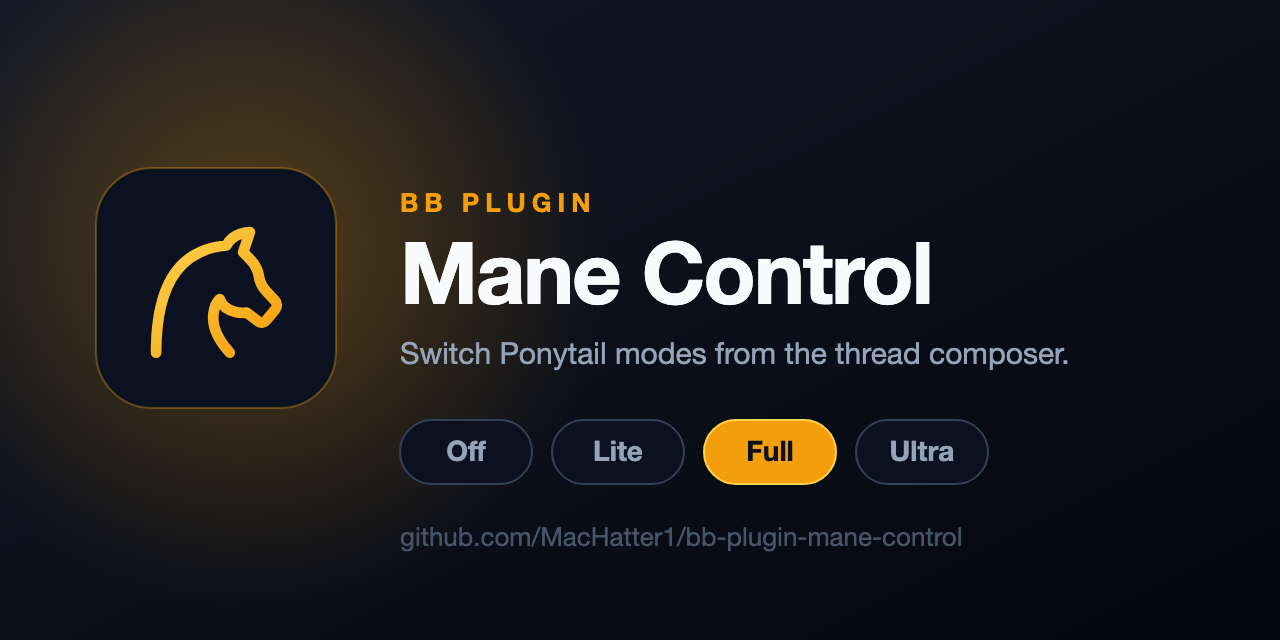
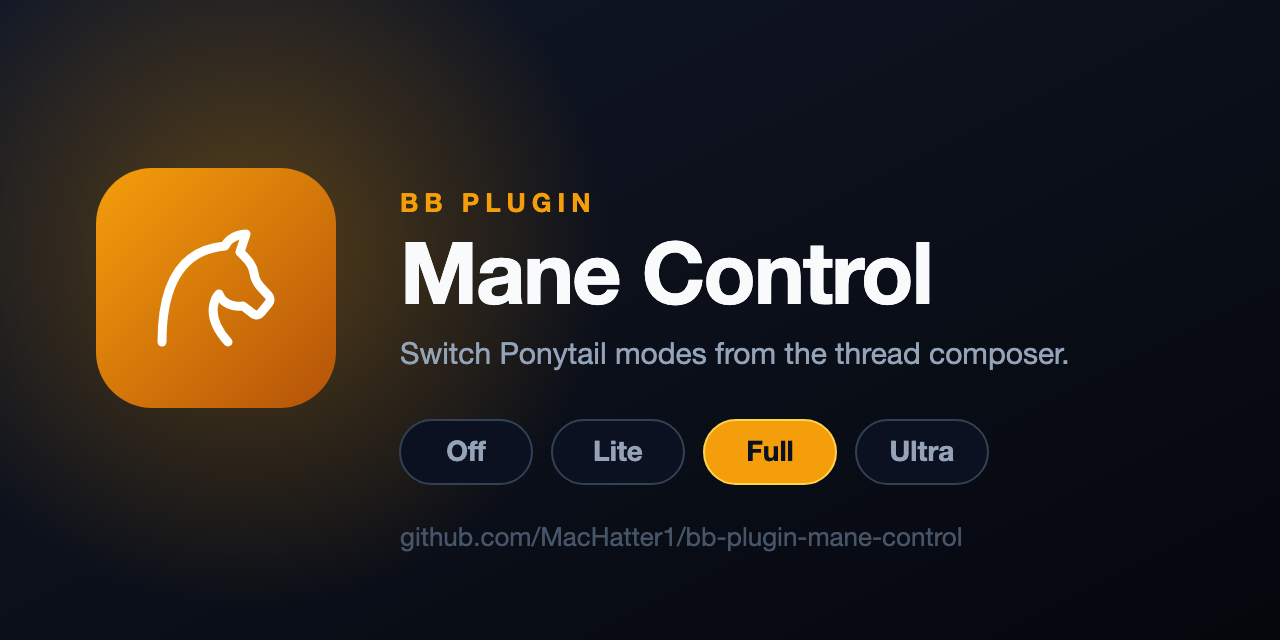
docs: move the README and branding to the house plugin layout
Visitors comparing plugins should find the same structure in every repo: the
problem, features, install, how it works and what it will not do. The README
now says plainly that the button only knows the mode it sent, since typing
/ponytail by hand does not update it. PLUGIN_OVERVIEW.md makes the same
claim.

The logo is regenerated as the shared gradient tile around the icon BB shows
for the plugin, and the social card uses the same tile. The old PNG logo is
dropped because nothing references it. A changelog records the three tagged
releases, and the npm description now shortens bb.description.

Changed region(s): [[0.0625, 0.25, 0.2812, 0.6562]]

diff --git a/README.md b/README.md
@@ -1,74 +1,214 @@
 <div align="center">
 
-<img src="assets/logo.png" alt="Mane Control logo" width="112" height="112">
+<img src="assets/logo.svg" width="96" height="96" alt="Mane Control logo">
 
 # Mane Control
 
-**Switch [Ponytail](https://github.com/DietrichGebert/ponytail) modes from the thread composer — no slash commands.**
+### Switch Ponytail modes without typing a slash command.
 
-[![BB plugin](https://img.shields.io/badge/BB-plugin-f59e0b?style=flat-square)](https://github.com/MacHatter1/bb-plugin-mane-control)
-[![version](https://img.shields.io/github/package-json/v/MacHatter1/bb-plugin-mane-control?style=flat-square&color=f59e0b)](package.json)
-[![requires Ponytail](https://img.shields.io/badge/requires-Ponytail-f59e0b?style=flat-square)](https://github.com/DietrichGebert/ponytail)
-[![license](https://img.shields.io/github/license/MacHatter1/bb-plugin-mane-control?style=flat-square&color=f59e0b)](LICENSE)
+A horse button beside the thread composer switches [Ponytail](https://github.com/DietrichGebert/ponytail) between Off, Lite, Full and Ultra.<br>
+You see the thread's mode at a glance, and mode changes show up in the transcript as small pills.
 
-<img src="output/playwright/mane-control-menu.png" alt="Ponytail mode menu open beside the BB composer" width="640">
+![Licence: MIT](https://img.shields.io/badge/licence-MIT-blue)
+![bb ≥ 0.40](https://img.shields.io/badge/bb-%E2%89%A5%200.40-f59e0b)
+![Plugin SDK ≥ 0.4.21](https://img.shields.io/badge/plugin%20sdk-%E2%89%A5%200.4.21-b45309)
+![TypeScript](https://img.shields.io/badge/TypeScript-strict-3178c6?logo=typescript&logoColor=white)
+
+[Features](#features) · [Install](#install) · [How it works](#how-it-works) · [Development](#development)
+
+<br>
+
+<img src="output/playwright/mane-control-lite.png" alt="The Ponytail mode menu open beside the BB composer, with Lite selected and a Ponytail · Lite pill in the transcript" width="780">
 
 </div>
 
-## What it does
+<br>
 
-A horse button sits beside the thread composer. Open it, pick a mode, and the
-matching `/ponytail` command goes into the thread straight away — the button
-keeps the active mode in view, and its icon changes with it.
+> [!NOTE]
+> The screenshots are real BB captures populated with fictional demo data.
 
-| Mode | Sends | Ponytail behaviour |
-| --- | --- | --- |
-| Off | `/ponytail off` | Disable Ponytail |
-| Lite | `/ponytail lite` | Build it, mention the lazier path |
-| Full | `/ponytail full` | The practical default ladder |
-| Ultra | `/ponytail ultra` | YAGNI with the reins off |
+## The problem
 
-Mode commands in the transcript collapse into compact `Ponytail · Mode` status
-pills, with the real command still available underneath.
+Ponytail has four modes, and you switch between them by typing
+`/ponytail lite` or `/ponytail ultra` into the thread. Halfway through a
+session, you have to remember the exact words. Nothing on screen tells you
+which mode the thread is in, and the commands sit in the transcript as plain
+messages among the real work.
+
+Mane Control puts the four modes in a menu beside the composer. Pick one and it
+sends the command for you. The button shows the mode, and the command shows up
+in the transcript as a small labelled pill.
+
+|  | Without Mane Control | With Mane Control |
+| --- | :---: | :---: |
+| Switch modes | Type `/ponytail <mode>` | ✅ Pick from a menu |
+| See the thread's mode | ❌ | ✅ On the button |
+| Mode changes in the transcript | Plain messages | ✅ `Ponytail · Mode` pills |
+| Guard against a missing Ponytail | ❌ | ✅ Nothing is sent |
+
+## Features
+
+<table>
+<tr>
+<td width="50%" valign="top">
+
+### 🐴 A mode menu by the composer
+
+Open the horse button and pick Off, Lite, Full or Ultra. Mane Control sends the
+matching `/ponytail` command into the thread straight away. Picking the mode
+you are already in sends nothing.
+
+</td>
+<td width="50%" valign="top">
+
+### 👀 The mode stays in view
+
+The button labels the thread's mode, and its icon changes with it: a crossed-out
+head for Off, a head for Lite, a whole horse for Full and a glowing badge for
+Ultra. Each thread keeps its own mode.
+
+</td>
+</tr>
+<tr>
+<td valign="top">
+
+### 🏷 Pills in the transcript
+
+A message that is nothing but `/ponytail <mode>` renders as a compact
+`Ponytail · Mode` pill with the mode's icon. The command text stays in the page
+underneath.
+
+</td>
+<td valign="top">
+
+### 🧩 Works with any Ponytail install
+
+Mane Control finds Ponytail as the Ponytail plugin, a user skill, or a registry
+install such as skills.sh. Without it, the button reads **REQUIRED** and stays
+disabled.
+
+</td>
+</tr>
+</table>
+
+<div align="center">
+<table>
+<tr>
+<td align="center"><img src="output/playwright/mane-control-thread.png" alt="The Mane Control button beside the composer, showing FULL" width="440"><br><sub><b>At rest: the button shows the mode</b></sub></td>
+<td align="center"><img src="output/playwright/mane-control-ultra.png" alt="Ultra selected in the menu, with the glowing Ultra button and a Ponytail · Ultra pill" width="440"><br><sub><b>Ultra, with its glowing badge</b></sub></td>
+</tr>
+</table>
+</div>
 
 ## Install
 
 ```sh
-bb plugin install https://github.com/MacHatter1/bb-plugin-mane-control
+bb plugin install git:https://github.com/MacHatter1/bb-plugin-mane-control --yes
 ```
 
-[Ponytail](https://github.com/DietrichGebert/ponytail) must also be installed
-and available for the thread's provider. Mane Control accepts the Ponytail
-plugin skill, a user skill, or a registry install such as skills.sh. When
-Ponytail is missing, the control stays disabled and mode changes are blocked.
+That's it. The horse button appears beside the composer in every thread.
 
-Requires BB `>= 0.40`.
+<details>
+<summary><b>Install from a local clone</b></summary>
 
-## Screenshots
+```sh
+git clone https://github.com/MacHatter1/bb-plugin-mane-control
+cd bb-plugin-mane-control
+npm install && bb plugin build
+bb plugin install path:$PWD --yes
+```
 
-These use disposable fixture data in a real BB thread.
+</details>
 
-| Thread control | Lite mode | Ultra mode |
-| --- | --- | --- |
-| ![Mane Control in BB](output/playwright/mane-control-thread.png) | ![Mane Control switched to Lite](output/playwright/mane-control-lite.png) | ![Mane Control switched from Lite to Ultra](output/playwright/mane-control-ultra.png) |
+**Requirements**
+
+- bb **0.40+** (Plugin SDK 0.4.21+)
+- [Ponytail](https://github.com/DietrichGebert/ponytail), installed as the
+  Ponytail plugin, a user skill, or from a registry such as skills.sh
+
+## Where to find it
+
+| Where | What |
+| --- | --- |
+| **Thread composer** | The horse button among the composer's actions. Click it to pick a mode. It appears in existing threads, not in the new-thread composer. |
+| **Thread transcript** | A `Ponytail · Mode` pill wherever a mode command was sent. |
+
+## How it works
+
+```mermaid
+sequenceDiagram
+    participant You
+    participant Button as Composer button
+    participant Server as Plugin server
+    participant BB
+    You->>Button: Pick a mode
+    Button->>Server: set_mode(thread, mode)
+    Server->>BB: List skills for the thread's project and environment
+    alt Ponytail installed
+        Server->>BB: Send "/ponytail <mode>" to the thread
+        Server->>Server: Save the mode for the thread
+        Server-->>Button: mode-changed event
+    else Ponytail missing
+        Server-->>Button: Error, nothing sent
+    end
+```
+
+- **One message per pick.** Each pick sends a single `/ponytail <mode>`
+  message, and Ponytail does the rest. Mane Control does not touch Ponytail's
+  files or settings.
+- **One mode per thread.** The last mode you pick is saved in the plugin's own
+  storage, keyed by thread. A thread you have not changed shows Full,
+  Ponytail's default.
+- **It only knows what it sent.** Mane Control does not read Ponytail's state.
+  If you type `/ponytail` yourself, the message still becomes a pill, but the
+  button keeps showing the last mode it set.
+- **Live in every window.** After a change, the server publishes a
+  `mode-changed` event, so every open composer refreshes its button.
+- **Pills are styling only.** A content script marks messages whose whole text
+  is `/ponytail <mode>`, in any case, and CSS draws the pill. Disabling the
+  plugin removes the styling.
+
+## Safe by default
+
+- ✋ **Sends only when you pick.** Nothing is sent when a thread opens, and
+  picking the mode already active sends nothing.
+- 🔒 **Checks for Ponytail first.** The server refuses a mode change when
+  Ponytail is not installed for the thread, so the command never reaches an
+  agent that cannot use it.
+- 🧵 **Stays in its thread.** It only sends to the thread whose composer you
+  used.
+- 📦 **Stores one word per thread.** The mode name is all it saves. It reads
+  and writes no files and makes no network requests of its own.
 
 ## Development
 
 ```sh
 npm install
 npm test
-npm run check
-npm run build
-bb plugin install .
+npm run check                      # typecheck
+bb plugin build
+bb plugin install path:$PWD --yes
+bb plugin dev                      # rebuild and reload on every save
 ```
 
-- `src/` — BB server and app entries
-- `src/lib/` — shared mode parsing and types
-- `test/` — backend and message-recognition checks
-- `assets/` — theme-aware horse icons, logo, social preview
-- `PLUGIN_OVERVIEW.md` — long-form store overview
-- `output/playwright/` — privacy-safe captures from the running BB app
+```
+src/server.ts        RPC (get_mode, set_mode) and the Ponytail check
+src/app.tsx          composer button and transcript pills
+src/styles.css       pill styling
+src/lib/             mode list, command matching, skill detection
+test/                server and matching tests
+assets/              horse icons, logo and social card
+output/playwright/   README screenshots
+```
 
-## License
+**Tests** run under Node's type stripping, with no test runner. They cover
+command matching and Ponytail detection, and drive the server through the
+Plugin SDK's fake plugin host: reading and setting a mode, the exact message
+sent, and the refusal when Ponytail is missing.
+
+`PLUGIN_OVERVIEW.md` is the store listing. Keep it in step with
+`bb.description` in `package.json`.
+
+## Licence
 
 [MIT](LICENSE)

diff --git a/CHANGELOG.md b/CHANGELOG.md
@@ -1,0 +1,40 @@
+# Changelog
+
+All notable changes to Mane Control are documented here. The format follows
+[Keep a Changelog](https://keepachangelog.com/en/1.1.0/), and the project uses
+[Semantic Versioning](https://semver.org/).
+
+## Unreleased
+
+### Added
+
+- MIT licence, logo, social card and changelog.
+
+### Changed
+
+- README rewritten to the house layout for BB plugins.
+
+## 0.1.2 - 2026-09-19
+
+### Changed
+
+- Fuller store listing: a longer `bb.description` and a new
+  `PLUGIN_OVERVIEW.md`.
+
+## 0.1.1 - 2026-09-19
+
+### Fixed
+
+- Ponytail installed as a user skill or from a registry such as skills.sh is
+  now detected. Before, only the Ponytail plugin's own skill counted.
+
+## 0.1.0 - 2026-08-31
+
+### Added
+
+- A horse button beside the thread composer that switches Ponytail between
+  Off, Lite, Full and Ultra by sending `/ponytail <mode>` into the thread.
+- The button shows each thread's mode, and its icon changes with it.
+- Messages that are just `/ponytail <mode>` render as `Ponytail · Mode` pills.
+- The control is disabled, and mode changes are refused, when Ponytail is not
+  installed.

diff --git a/PLUGIN_OVERVIEW.md b/PLUGIN_OVERVIEW.md
@@ -1,8 +1,10 @@
 ## What you get
 
-A horse button sits beside the thread composer so you can switch Ponytail without typing a slash command. Open the menu, pick Off, Lite, Full, or Ultra, and the matching `/ponytail` command goes into the thread straight away. The button keeps the active mode in view.
+A horse button sits beside the thread composer so you can switch Ponytail without typing a slash command. Open the menu, pick Off, Lite, Full, or Ultra, and the matching `/ponytail` command goes into the thread straight away. The button shows the mode you last picked for that thread, and its icon changes with it.
 
 Mode-command messages in the transcript render as compact `Ponytail · Mode` status pills, with the real command still available underneath.
+
+Mane Control does not read Ponytail's state. If you type `/ponytail` yourself, the message still becomes a pill, but the button keeps showing the last mode it set.
 
 ## Requirements
 
